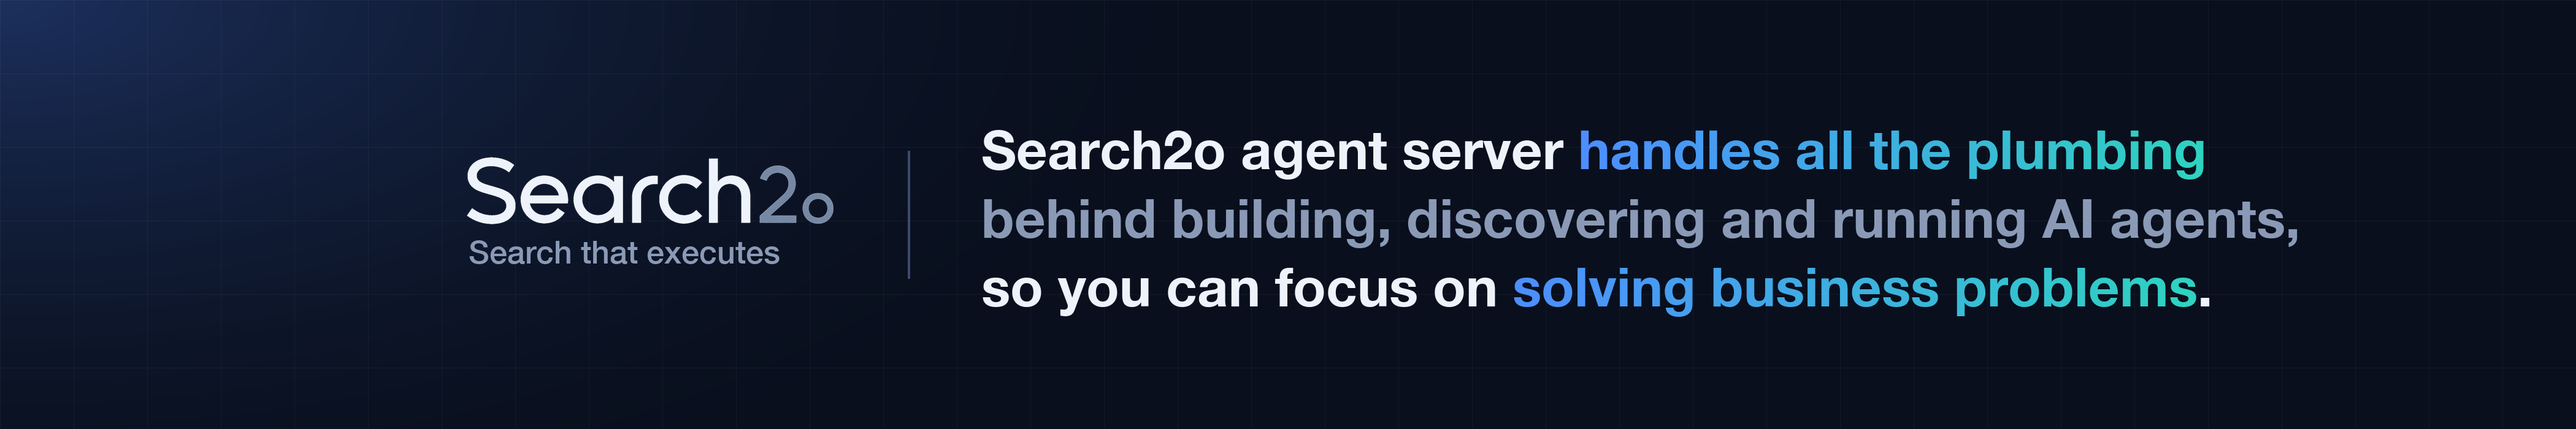
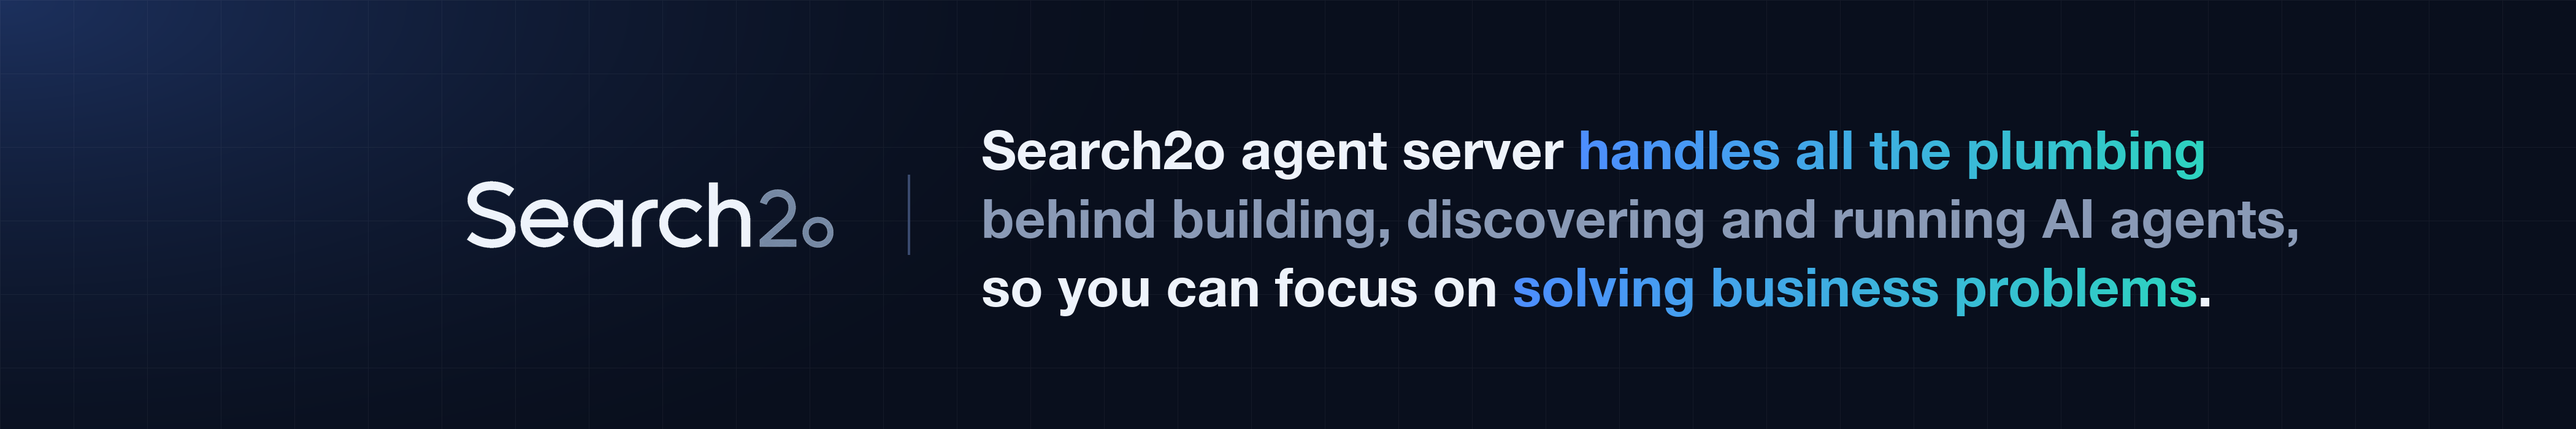
Move from s2oserver

Changed region(s): [[0.156, 0.36, 0.3431, 0.63]]

diff --git a/gen/linkedin_banner.py b/gen/linkedin_banner.py
@@ -1,5 +1,5 @@
 """Draws content/linkedin-banner2.png, the LinkedIn company page cover (4200x700, 6:1): the wordmark
-art from gen/assets/wordmark.png with the tagline, and the home page headline with its gradient
+art from gen/assets/wordmark.png, and the home page headline with its gradient
 accent. LinkedIn shows it at 1128x191 and overlays the page logo on the bottom-left corner, so the
 content sits in the middle band with wide margins. Run with the system python3 (needs PIL)."""
 import math, os
@@ -39,11 +39,10 @@ for y in range(wm.height):
 WM_W = 600
 wm = wm.resize((WM_W, round(wm.height * WM_W / wm.width)), Image.LANCZOS)
 left = 760
-block_h = wm.height + 26 + 52
+block_h = wm.height
 wm_top = round((H - block_h) / 2)
 img.alpha_composite(wm, (left, wm_top))
 d = ImageDraw.Draw(img)
-d.text((left + 4, wm_top + wm.height + 26), "Search that executes", font=medium(52), fill=MUTED, anchor="lt")
 
 # vertical hairline between the wordmark and the headline
 xh = left + WM_W + 120
